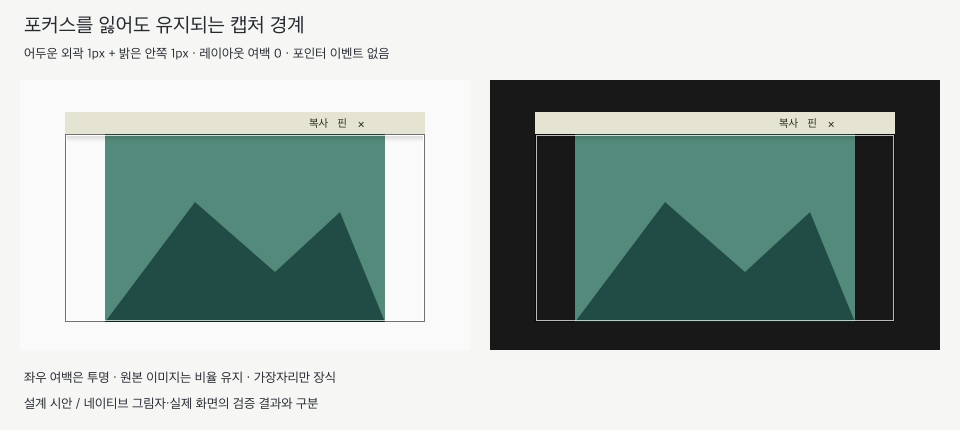
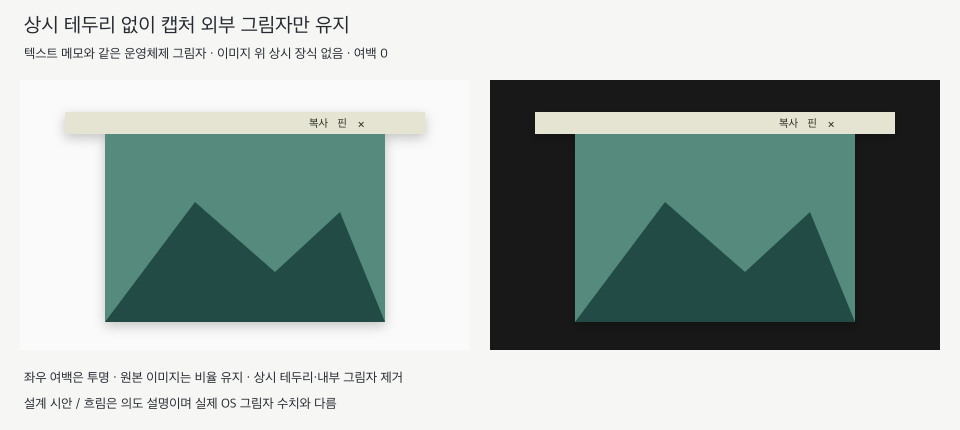
캡처 상시 테두리를 제거하고 공통 네이티브 외부 그림자 적용

diff --git a/ui/memo-frame.css b/ui/memo-frame.css
@@ -23,19 +23,3 @@ body.memo-focused #memo-surface::after {
   }
 }
 
-/* Paint only: preserve capture geometry, transparent letterboxing and hit areas.
-   The light inner keyline remains visible against dark desktops; the dark
-   outer keyline separates pale captures from light desktops, even unfocused.
-   Keep the shadow inside the existing window rather than adding a gutter. */
-body.image-note:not(.folded):not(.toolbar-collapsed) #viewport::after {
-  content: "";
-  position: absolute;
-  inset: 0;
-  z-index: 1;
-  pointer-events: none;
-  border-radius: inherit;
-  box-shadow:
-    inset 0 0 0 var(--surface-border) var(--capture-edge-dark),
-    inset 0 0 0 2px var(--capture-edge-light),
-    var(--capture-edge-shadow);
-}

diff --git a/ui/tokens.css b/ui/tokens.css
@@ -13,9 +13,6 @@
   --surface-border: 1px;
   --memo-focus-width: 2px;
   --surface-shadow: 0 2px 6px rgb(0 0 0 / 12%);
-  --capture-edge-dark: rgb(0 0 0 / 55%);
-  --capture-edge-light: rgb(255 255 255 / 70%);
-  --capture-edge-shadow: inset 0 2px 6px rgb(0 0 0 / 12%);
   --memo-padding: 3px;
   --feedback-padding: var(--memo-padding);
 }

diff --git a/src-tauri/src/main.rs b/src-tauri/src/main.rs
@@ -86,6 +86,12 @@ fn create_window(
     let win = first_frame::prepare_builder(builder, region)
         .build()
         .map_err(|e| e.to_string())?;
+    // Use the same OS-owned external shadow for text and capture memo hosts.
+    // No CSS gutter/paint may cover image pixels or transparent letterboxing.
+    // Limit this explicit setting to macOS: Windows adds a white 1px border
+    // when set_shadow(true) is called on an undecorated window.
+    #[cfg(target_os = "macos")]
+    win.set_shadow(true).map_err(|e| e.to_string())?;
     // Region-created notes also have a stable place if later re-included.
     #[cfg(windows)]
     {
@@ -838,6 +844,8 @@ fn serve(endpoint: ipc::Endpoint, initial_open: bool) -> Result<(), String> {
             #[cfg(target_os = "macos")]
             app.set_activation_policy(tauri::ActivationPolicy::Regular);
             if let Some(win) = app.get_webview_window("main") {
+                #[cfg(target_os = "macos")]
+                win.set_shadow(true)?;
                 #[cfg(windows)]
                 windows_window::install_resize_observer(&win)?;
                 win.set_title(&format!("{} — main", instance::current().title()))?;

diff --git a/docs/verification/capture-native-shadow-20261119.md b/docs/verification/capture-native-shadow-20261119.md
@@ -1,0 +1,24 @@
+# 캡처 비활성 외부 그림자 — 사용자 정정, 2026-11-19
+
+## 대상과 최종 동작
+
+- 워크트리: `/Users/egoinglee/.codex/worktrees/312d/agent-gibbon`
+- 브랜치: `codex/capture-native-shadow`
+- 기준 main: `952a0dbbcde3242051bf582d0a5eb73a202aa2c3`
+- 이전 PR #251의 상시 이중 경계·내부 그림자와 전용 CSS 토큰을 제거했다.
+- macOS의 공통 텍스트·이미지 메모 생성 경로와 시작 시 main 창에 `set_shadow(true)`를 명시했다. 그림자의 색·강도·범위는 OS가 결정한다. CSS 그림자, 투명 테두리, 여백, 보조 창은 추가하지 않았다.
+- 설치된 Tauri 2.12.2의 `set_shadow` 문서에 따르면 Windows에서는 장식 없는 창에 흰색 1px 테두리를 추가한다. 사용자 요구에 어긋나므로 해당 호출은 macOS에 한정한다. Windows의 기존 동작은 유지하며 그림자 개선을 검증했다고 주장하지 않는다.
+- PR #252의 네 변 2px 포커스 테두리와 forced-colors 처리는 변경하지 않았다. 포커스 상실 시 해당 테두리는 기존처럼 사라진다.
+- 이미지 파일/복사 경로·contain 비율·투명 여백·창 좌표/크기·resize/클릭/드래그 코드는 변경하지 않았다. 보존 판단은 코드 검토 기준이며 실기기 실측 결과가 아니다.
+
+## 검증 범위
+
+- 설명용 SVG를 `rsvg-convert`로 PNG로 렌더링하고 직접 열어 확인했다. 밝고 어두운 배경, 상시 테두리 없는 외부 그림자 의도를 표현한다. 시안의 흐림 수치는 OS 실측값이 아니다.
+- 지정된 자동 iMac 시험은 팀장 세션 인계 기록에서 사용자 중지 상태로 확인했다. 임의 재개·다른 호스트 대체 시험은 하지 않았다. GUI 검증은 **NOT RUN**이다.
+- 이 컴퓨터 실행 정책에 따라 단위·통합·정적 검사·모의 브라우저 시험을 실행하지 않았다.
+- 추후 승인 시 확인할 항목: 밝고 어두운 배경에서 캡처/텍스트의 비활성 외부 그림자 비교, 알파/letterbox 투명성, 그림자 가장자리의 클릭 통과, 이미지 복사 바이트·좌표/크기 보존, 상하 툴바와 네 변 포커스 표시의 독립성, 접힘/펼침·resize 회귀.
+- Conf 1 / Risk Low. 개발 빌드 성공은 GUI 외형·입력 검증과 구분한다.
+
+## 빌드와 추적
+
+작업 Mac의 이 워크트리에서 `npm run dev:build`를 실행한다. 커밋 직전 빌드는 기준 HEAD + 이번 미커밋 변경을 포함하며, 병합 후 최종 SHA와 각 워크트리의 개발 빌드 결과는 PR 및 완료 보고에 기록한다. 공개 릴리스·배포는 수행하지 않는다.
